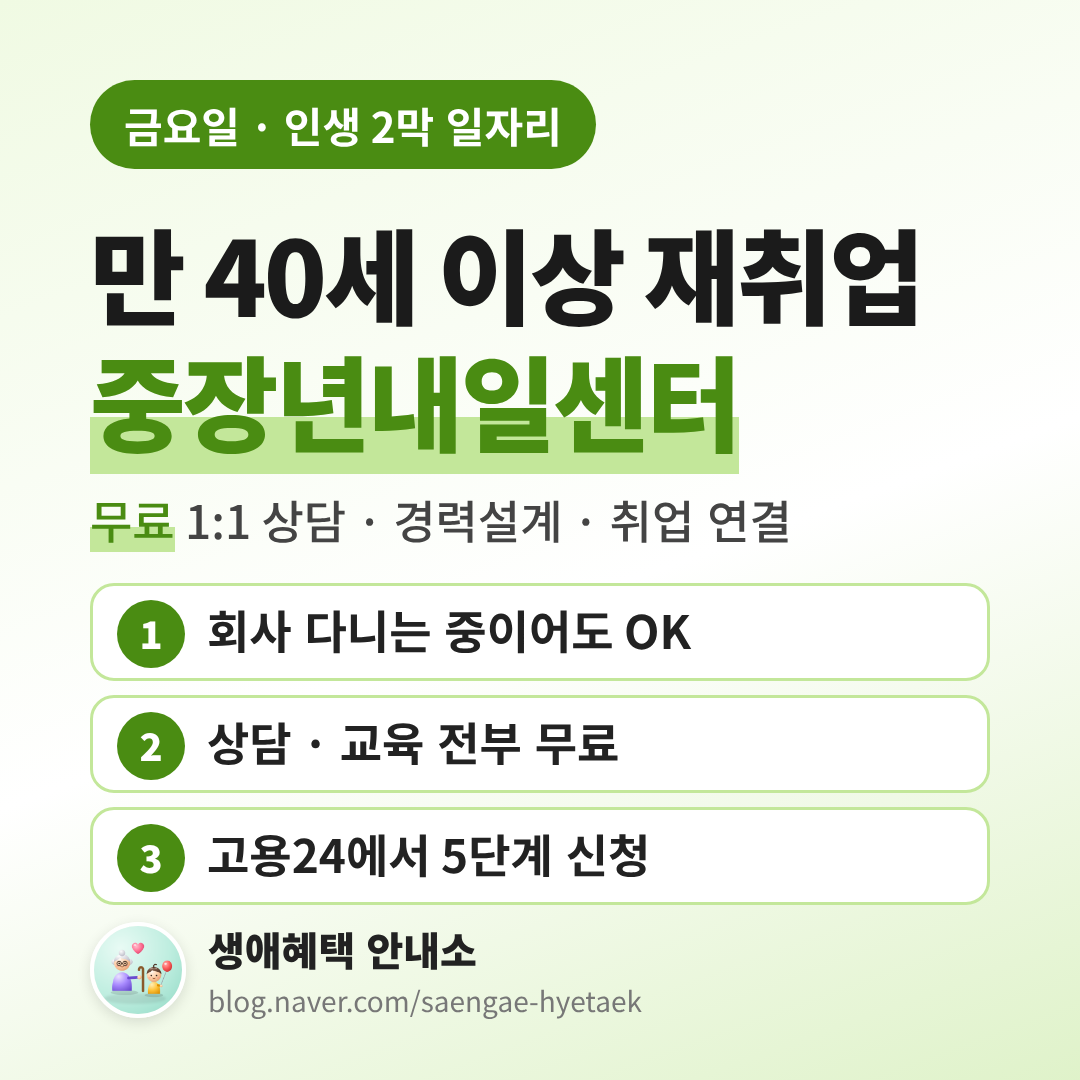
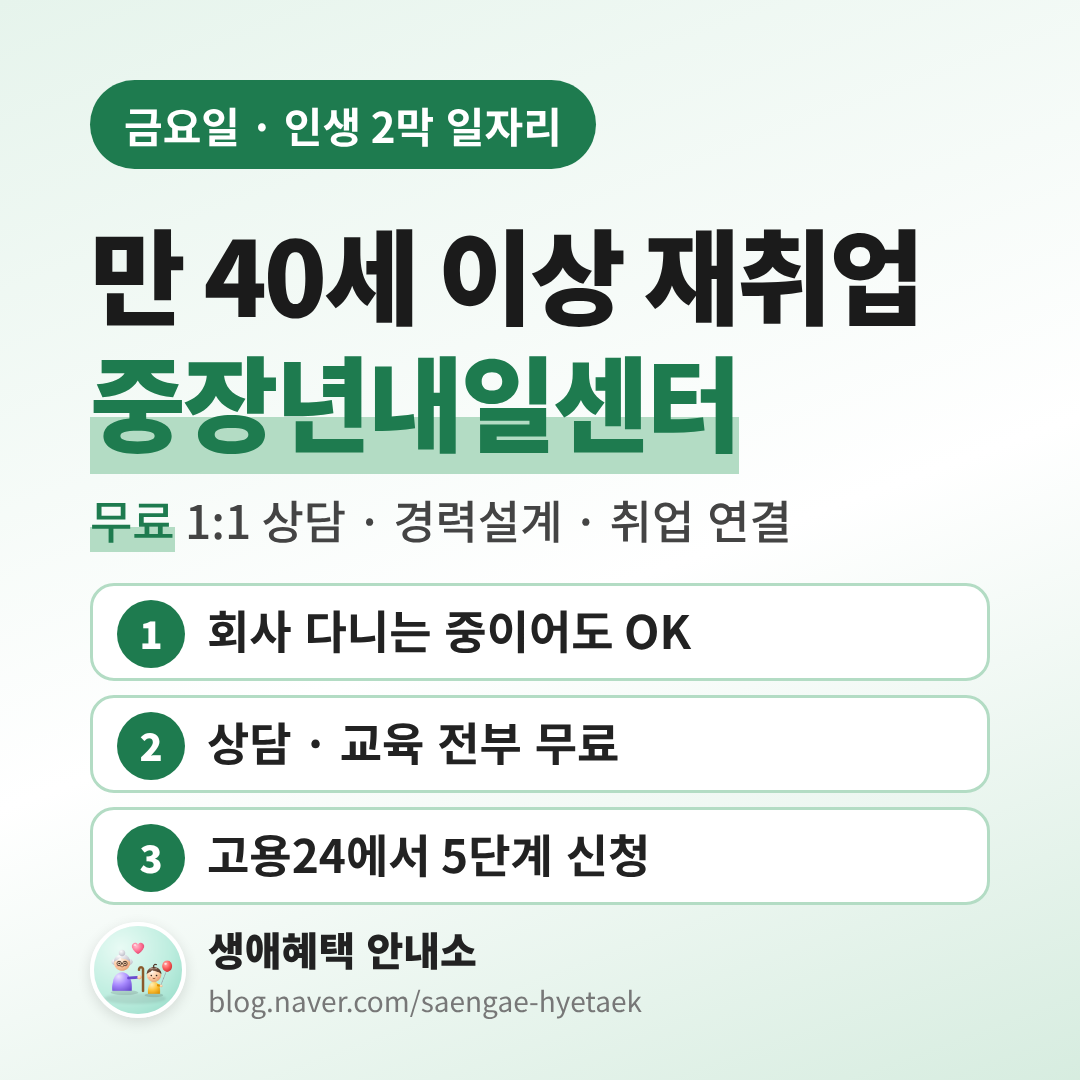
금요일 색을 약속한 초록(#1E7B4F)으로
Claude-Session: https://claude.ai/code/session_01Nk3GpQpxJj9NPpDGjGUV5D

diff --git a/tools/blog-card/make-viewer.py b/tools/blog-card/make-viewer.py
@@ -6,7 +6,7 @@ ROOT = os.path.dirname(os.path.dirname(os.path.dirname(os.path.abspath(__file__)
 BLOG = os.path.join(ROOT, 'blog')
 OUT = os.path.join(ROOT, 'viewer')
 DAYS = '월화수목금토일'
-COLOR = {'money': '#d9480f', 'digital': '#1c5fd4', 'job': '#4a8c12', 'guide': '#0f8a6c'}
+COLOR = {'money': '#d9480f', 'digital': '#1c5fd4', 'job': '#1E7B4F', 'guide': '#0f8a6c'}
 
 shutil.rmtree(OUT, ignore_errors=True)
 os.makedirs(os.path.join(OUT, 'img'))
